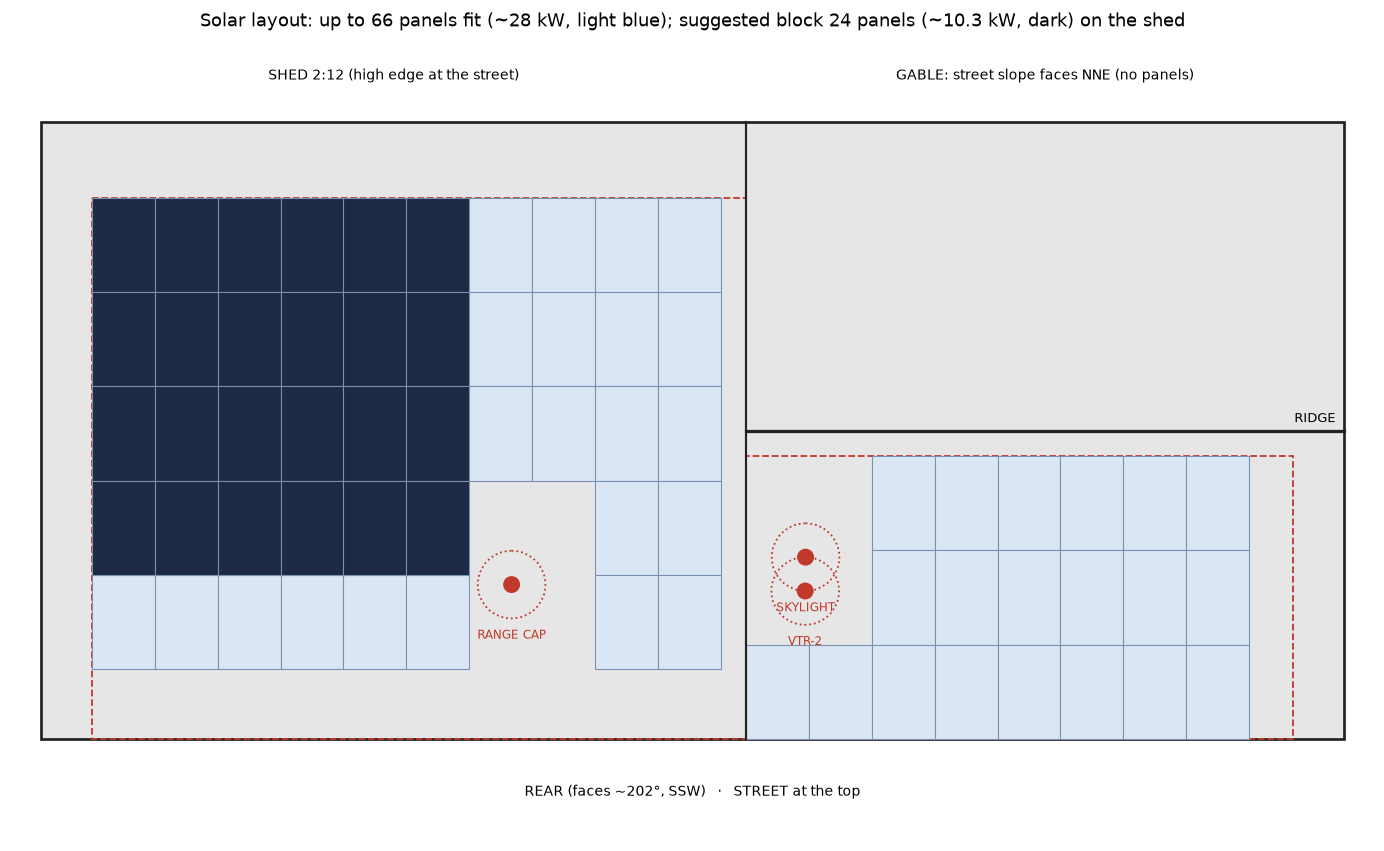
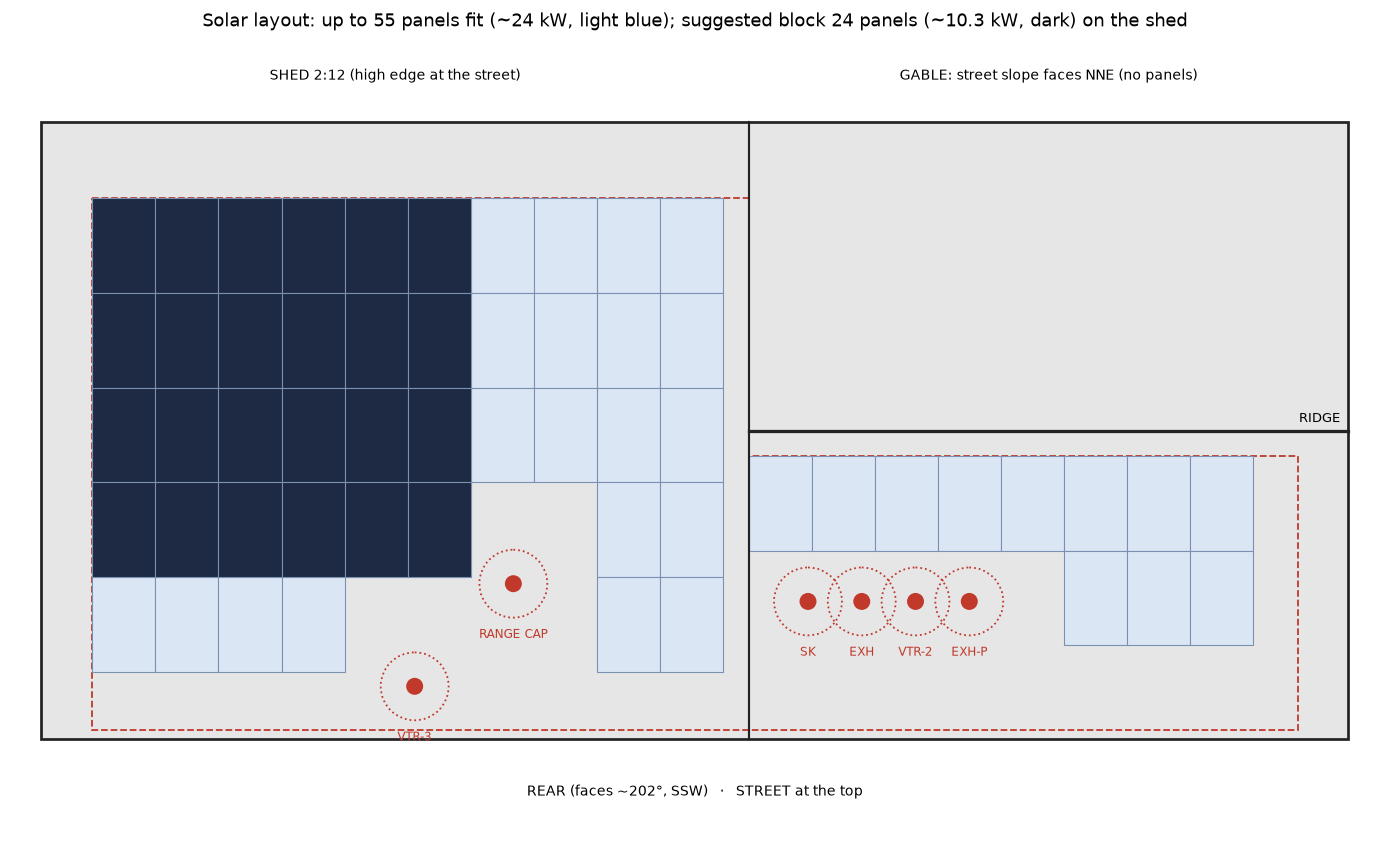
Solar layout experiment: penetrations as on A-3 (about 55 panels fit; the 24-panel block unchanged)

diff --git a/scripts/experiment_solar.py b/scripts/experiment_solar.py
@@ -37,8 +37,10 @@ BLOCK = (6, 4)                                                      # suggested 
 
 
 def penetrations():
-    sh = S.build()
-    return {"RANGE CAP": P.text_at(sh, "RANGE"), "SKYLIGHT": P.text_at(sh, "SKYLIGHT"), "VTR-2": (868.0, 544.0)}
+    sh = S.build()                                                   # as on A-3: the rear-slope row (skylight, fan
+    y = P.text_at(sh, "SKYLIGHT")[1]                                 # cap, vent, primary bath fan cap) and the
+    return {"RANGE CAP": P.text_at(sh, "RANGE"), "SK": (868.0, y), "EXH": (906.0, y), "VTR-2": (944.0, y),   # kitchen
+            "EXH-P": (982.0, y), "VTR-3": (590.0, 612.0)}           # sink's vent at the rear wall line
 
 
 def grid(x0, y0, cols, rows):

diff --git a/README.md b/README.md
@@ -1,6 +1,6 @@
 # Accosting rebuild: floor plan and design wishlist
 
-220 Laurel Dr, Altadena. All-electric, single-story Eaton Fire rebuild (non-like-for-like). Updated Oct 28, 2026, 1:48 PM PT · @Richard
+220 Laurel Dr, Altadena. All-electric, single-story Eaton Fire rebuild (non-like-for-like). Updated Oct 28, 2026, 1:54 PM PT · @Richard
 
 [CHANGELOG](CHANGELOG.md)
 
@@ -60,7 +60,7 @@ Walls are drawn at realistic thicknesses: exterior 9" (2x6 + sheathing + 1" rigi
 | [`accosting-owner-schematic.dxf`](accosting-owner-schematic.dxf) | The plan as a DXF (inches) |
 | [Architectural set, draft (PDF)](renders/permit/architectural-set.pdf) | 24" x 36" permit sheets: [A-0 cover, vicinity map, project data and code analysis](renders/permit/A-0-cover.png) · [A-1 site plan](renders/permit/A-1-site-plan.png) · [A-2 floor plan and schedules](renders/permit/A-2-floor-plan.png) · [A-3 roof plan](renders/permit/A-3-roof-plan.png) · [A-4 elevations](renders/permit/A-4-elevations.png) · [A-5 sections](renders/permit/A-5-sections.png) · [A-6 fire-zone details](renders/permit/A-6-fire-details.png) · [A-7 attic and loads plan](renders/permit/A-7-attic-loads.png) |
 | Experiment: hall arches, [from the lounge](renders/experiments/hall-arches/from-lounge.png) and [from the primary door](renders/experiments/hall-arches/from-primary-door.png) · [3D model](https://blotzy.github.io/floorplan/renders/experiments/hall-arches/house.html#roof) | Two matching round arches in plain drywall across the bedroom hall: one where the hall meets the great room, one in place of the square dropped header partway down. Each a half-circle across the hall, springing at about 7'-0" and peaking just under the 9' ceiling |
-| Experiment: [solar layout](renders/experiments/solar-layout.png) | Panels on the roof's south-facing plane (the shed and the wing's rear slope, 2:12 facing SSW), clear of the range cap, skylight and vent: up to about 66 panels fit; a suggested 24-panel (~10 kW) block on the shed |
+| Experiment: [solar layout](renders/experiments/solar-layout.png) | Panels on the roof's south-facing plane (the shed and the wing's rear slope, 2:12 facing SSW): up to about 55 panels fit, clear of the range cap, the rear-slope row (skylight, fan caps, vent) and the kitchen vent; a suggested 24-panel (~10 kW) block on the shed |
 | Experiment: [no tub, wider walk-in closet, bath through the closet](renders/experiments/suite-wic-entry.png) · [3D model](renders/experiments/suite-wic-entry/house.html) | The no-tub, wider-closet suite with the closet door centred on its aisle (swinging in, hinged on the hall side) and the bath reached from the closet by a door just inside it (swinging into the bath, opening flat on its end wall): no bath door in the bedroom, a shelf bay for the open closet door at the end of the hall-side hanging, the WC and vanity side by side on the bath's rear wall and the shower entered from the closet-wall side; the bedroom TV off-centre beside the closet door |
 | Experiment: [suite foyer](renders/experiments/suite-foyer.png) · [3D model](renders/experiments/suite-foyer/house.html) | From the bath-through-the-closet suite: a small foyer (about 3'-6" x 7'-0") at the bedroom end of the walk-in closet, entered from the hall by the suite's door (moved from the bedroom's corner), leading to the bedroom through a cased opening at the hall end of the foyer (the bedroom's east wall stays whole for the TV, centred on the bed), the walk-in closet by a door and the bath by a door. The closet is shorter (about 10'-8"), hanging both sides; the bath keeps its full length (shower, WC and double vanity) |
 | Experiment: [primary suite as a west wing](renders/experiments/suite-west-wing.png) (vs [the current plan](renders/experiments/suite-west-wing-current.png)) · [3D model](renders/experiments/suite-west-wing/house.html) | The primary suite runs front to back across the west end: the bedroom takes a strip of the office for its entry (one door, on the south side of the hall, with a dresser and the TV centred on the bed); the walk-in closet and bath are where the office is now, deepened into the old nook strip (bath through the closet); the office moves to the rear room off the hall |
